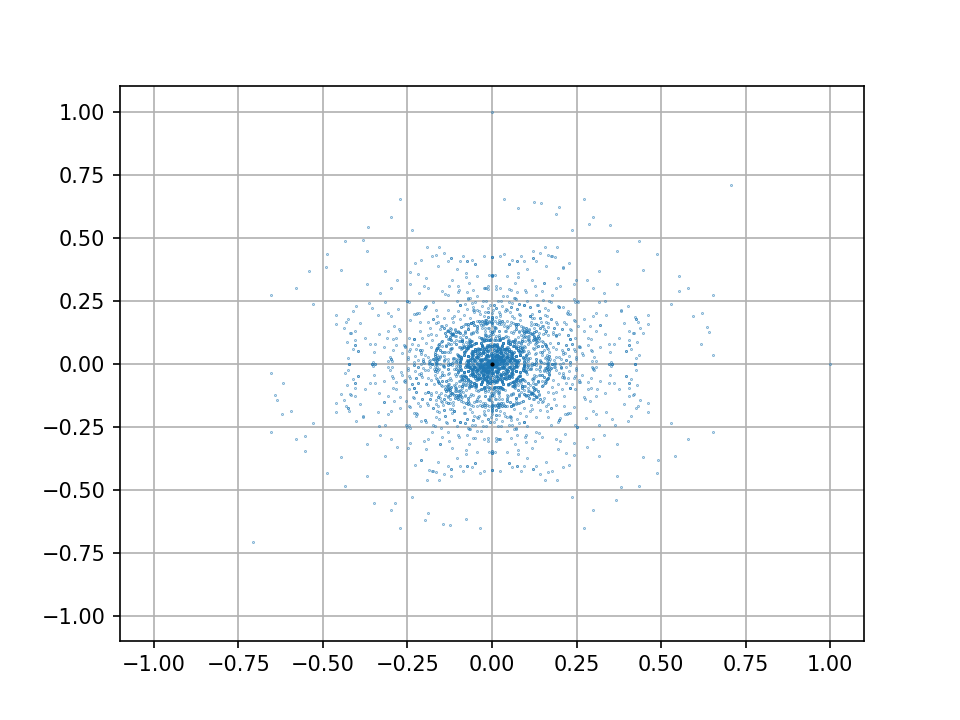
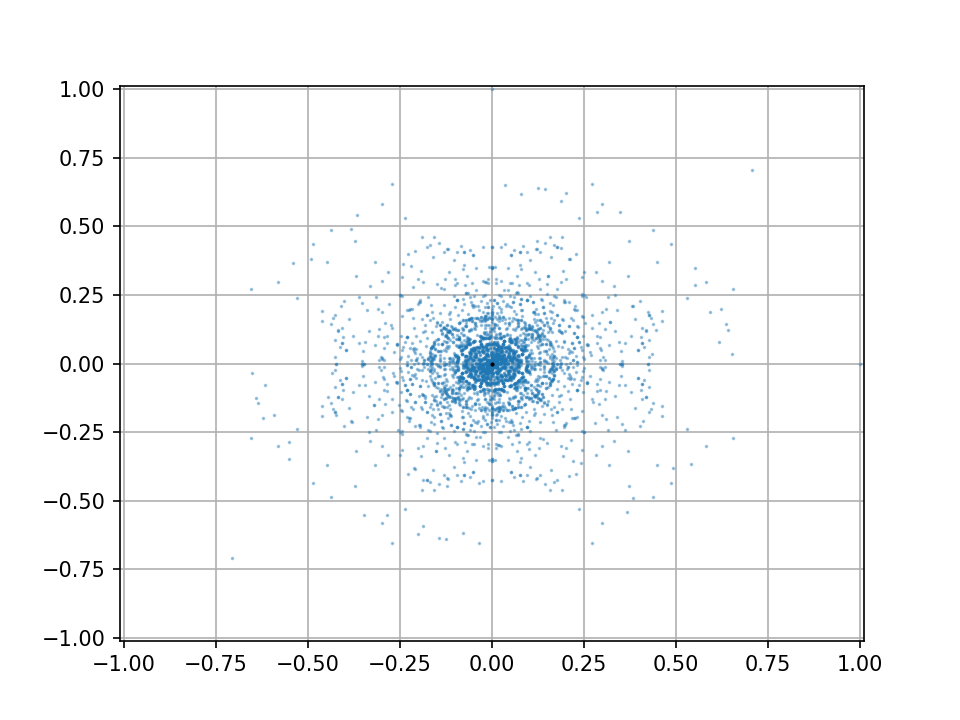
Optimized and cleaned up vector class and program

diff --git a/Vector.py b/Vector.py
@@ -27,6 +27,9 @@ class Vector:
     def __init__(self, components):
         self._comp = components
 
+    def get_comp(self):
+        return self._comp
+
     def __len__(self):
         """ Number of components in vector """
         return len(self._comp)
@@ -47,7 +50,7 @@ class Vector:
 
     def __getitem__(self, item):
         """ Allows component at index """
-        return self._comp[item]
+        return self.get_comp()[item]
 
     def __setitem__(self, key, value):
         """ Allows setting component at index """
@@ -58,11 +61,11 @@ class Vector:
 
     def __str__(self):
         """ Pretty print """
-        return str(self._comp)
+        return str(self.get_comp())
 
     def __repr__(self):
         """ Useful print """
-        return str(self._comp)
+        return str(self.get_comp())
 
     def __hash__(self):
         """ Makes Vector unique """
@@ -70,19 +73,27 @@ class Vector:
 
     def __abs__(self):
         """ Returns magnitude of vector"""
-        return (sum([i**2 for i in self._comp]))**0.5
+        return (sum([i**2 for i in self.get_comp()]))**0.5
 
     def _operator(self, other, comparator):
         """ Helper function to reduce code in operations """
         if len(self) == len(other):
-            return Vector([comparator(x, y) for x, y in zip(self, other)])
+            return Vector([comparator(x, y) for x, y in zip(self.get_comp(), other.get_comp())])
         else:
             logger.error(f"self and other have unequal length")
             raise IndexError
 
     def __eq__(self, other):
         """ Equality """
-        return all([x == y for x, y in zip(self, other)])
+        if isinstance(other, Vector):
+            return all([x == y for x, y in zip(self.get_comp(), other.get_comp())])
+        elif isinstance(other, list):
+            return all([x == y for x, y in zip(self.get_comp(), other)])
+        else:
+            return False
+
+    def __neg__(self):
+        return Vector([-x for x in self.get_comp()])
 
     def __add__(self, other):
         """ Addition """
@@ -97,9 +108,9 @@ class Vector:
         if isinstance(other, Vector):
             return self._operator(other, operator.mul)
         elif isinstance(other, int):
-            return Vector(list(map(lambda x: x * other, self)))
+            return Vector(list(map(lambda x: x * other, self.get_comp())))
         elif isinstance(other, float):
-            return Vector(list(map(lambda x: x * other, self)))
+            return Vector(list(map(lambda x: x * other, self.get_comp())))
 
     def __truediv__(self, other):
         """ Component by component division """

diff --git a/VectorCrossSpace.py b/VectorCrossSpace.py
@@ -19,40 +19,42 @@ def _plotter(space, dpi, name):
     logger.info("Plotting image")
     plt.rcParams['axes.axisbelow'] = True
     plt.figure(dpi=dpi)
-    plt.scatter([v[0] for v in space], [v[1] for v in space], s=(72./dpi)**2, marker='.')
+    plt.scatter([v[0] for v in space],
+                [v[1] for v in space],
+                s=2,
+                marker='.',
+                alpha=0.4)
     plt.plot(0, 0, 'ok', markersize=1)
     plt.grid(b=True, which='major')
-    plt.xlim(-1.1, 1.1)
-    plt.ylim(-1.1, 1.1)
+    plt.xlim(-1.01, 1.01)
+    plt.ylim(-1.01, 1.01)
     plt.savefig(name)
     logger.info(f"Saved image at {name}")
 
 
 def main(iterations, basis):
     """
-    Basically iterates through each permutation of the space to create vectors using the mod product
+    Basically iterates through each combination of the space to create vectors using the mod product
     :param iterations: Number of iterations to run (BE CAREFUL!!!! STAY WITHIN 1-4)
     :param basis: Starting vector(s)
     """
-    # TODO: Figure out a way to do this with threading, that way we can stop any time
     space = basis
     n = 0
     while n < iterations:
         temp = []
         for vec1, vec2 in itertools.combinations_with_replacement(space, 2):
-            c1, c2 = vec1 % vec2, vec2 % vec1
-            temp.extend([c1, c2])
-        space.extend([v for v in temp if v not in space and len(v) == 2])
-        temp.clear()
+            if vec1 != vec2:
+                c = vec1 % vec2
+                if c not in space and c not in temp:
+                    temp.append(c)
+                    temp.append(-c)
+        space.extend(temp)
         n += 1
         logger.info(f"Iteration {n} finished: {len(space)} vectors in space")
 
-    old_len = len(space)
-    space = list(set(space))
-    logger.info(f"Removed {old_len-len(space)} redundant vectors")
     logger.info(f"Current vector count: {len(space)}")
     _plotter(space, 150, 'vecspace.png')
 
 
 if __name__ == '__main__':
-    main(4, [Vector([1, 0]), Vector([0, 1])])
+    main(5, [Vector([1, 0]), Vector([0, 1])])
